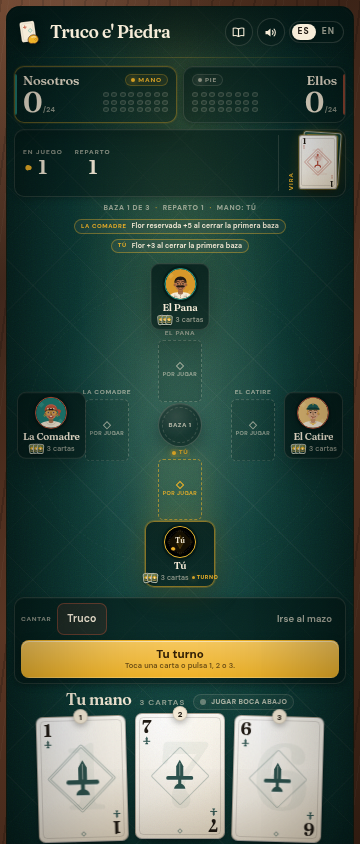
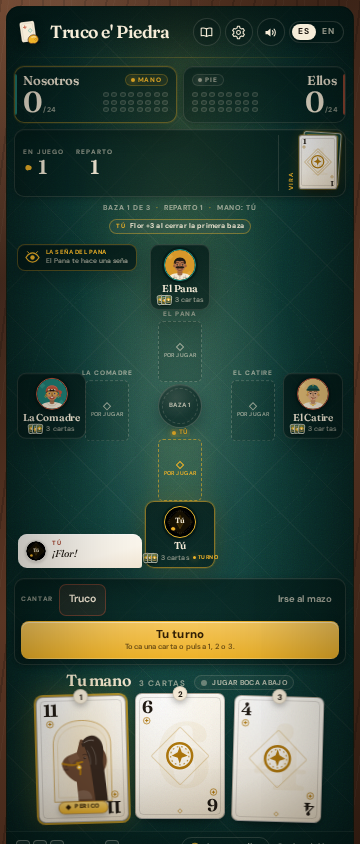
docs(readme): ship the mesa with real evidence

diff --git a/index.html b/index.html
@@ -22,7 +22,7 @@
     <meta property="og:url" content="https://gerrcass.github.io/venezuelan-truco-game/" />
     <meta
       property="og:image"
-      content="https://gerrcass.github.io/venezuelan-truco-game/og-image.png"
+      content="https://gerrcass.github.io/venezuelan-truco-game/og-image.jpg"
     />
     <meta property="og:image:width" content="1200" />
     <meta property="og:image:height" content="630" />
@@ -39,7 +39,7 @@
     />
     <meta
       name="twitter:image"
-      content="https://gerrcass.github.io/venezuelan-truco-game/og-image.png"
+      content="https://gerrcass.github.io/venezuelan-truco-game/og-image.jpg"
     />
     <meta
       name="twitter:image:alt"

diff --git a/README.md b/README.md
@@ -1,5 +1,119 @@
-<img src="assets/icon.svg" width="64" height="64" alt="">
+<p align="center">
+  <img src="assets/icon.svg" width="76" height="76" alt="Truco e' Piedra: a playing card with a stone">
+</p>
 
-# venezuelan-truco-game
+<h1 align="center">Truco e' Piedra</h1>
 
-Created in [T3 Code](https://t3.codes).
+<p align="center">
+  <strong>24 piedras, four friends, one Caracas kitchen table.</strong><br>
+  A single-player 2v2 Venezuelan truco game that runs in the browser.
+</p>
+
+<p align="center">
+  <a href="https://gerrcass.github.io/venezuelan-truco-game/"><strong>▶ Jugar la mesa · Play the table</strong></a>
+  &nbsp;·&nbsp;
+  <a href="docs/rules/TRUCO-VENEZOLANO.md">Rules</a>
+  &nbsp;·&nbsp;
+  <a href="docs/adr/">Decisions</a>
+</p>
+
+<p align="center">
+  <a href="https://github.com/gerrcass/venezuelan-truco-game/actions/workflows/ci.yml"><img src="https://github.com/gerrcass/venezuelan-truco-game/actions/workflows/ci.yml/badge.svg?branch=main" alt="CI status"></a>
+  <a href="https://github.com/gerrcass/venezuelan-truco-game/actions/workflows/pages.yml"><img src="https://github.com/gerrcass/venezuelan-truco-game/actions/workflows/pages.yml/badge.svg?branch=main" alt="Pages deployment status"></a>
+  <a href="LICENSE"><img src="https://img.shields.io/badge/license-MIT-f0b429" alt="MIT license"></a>
+</p>
+
+<p align="center">
+  <a href="https://gerrcass.github.io/venezuelan-truco-game/">
+    <img src="assets/truco-mesa.png" alt="Truco e' Piedra table at 1440 px: Nosotros and Ellos on 0, the vira 3 de oro, El Pana's seña panel, the perico in the human hand, an accepted envido in the log and El Catire answering ¡Quiero!." width="100%">
+  </a>
+  <br>
+  <sub>A real deal (seed <code>seed-17</code>): vira 3 de oro, the perico in hand, El Pana's seña and an envido on the table.</sub>
+</p>
+
+## What it is
+
+**Truco e' Piedra** is a free, single-player 2v2 Venezuelan truco game played to **24 piedras**. You sit with **El Pana** against **La Comadre** and **El Catire** at a warm Caracas kitchen table. The rules are the Venezuelan ones, not the Argentine ones: the **vira** turns a court card into the **perico** or **perica**, **flor** cancels **envido**, and the **prive** shows up when somebody is one piedra away from winning.
+
+No backend, no accounts, no analytics. It is a static site, a deck of cards and a very opinionated partner.
+
+## What's on the table
+
+- **Vira, perico and perica** — the vira's palo promotes the caballo and sota (or the rey, when the vira is a court card). The table labels every piece, and El Pana's seña points at one.
+- **Envido and la falta** — the full four-step ladder: envido, quiero y envido, quiero y 5 piedras más and envido la falta.
+- **Flor and flor reservada** — three of a palo, or a piece with two of a palo. Flor cancels envido. Reservada (perico + perica) is automatic and worth 5.
+- **The truco ladder** — truco, retruco, vale nueve and vale juego, with accepts, declines, raises and folds.
+- **Prive, quemar and pardas** — the 23-piedra prive, face-down burns and the house parda rules, all itemized.
+- **Señas and table talk** — El Pana sends one gesture per reparto; the three personas have their own risk appetite and their own mouth.
+- **Spanish and English** — every visible string, rule and taunt exists in both languages. Spanish is the default.
+- **Keyboard and phone first** — play with 1–3, open rules with R, burn with B, close with Escape. The table works at 360 px and respects `prefers-reduced-motion`.
+- **A deterministic engine** — seeded shuffles and bot decisions. The same seed gives the same mesa, which is how the screenshot above was taken.
+
+## How to play in 30 seconds
+
+1. You and El Pana get **three cards** each. The team that wins **two of the three bazas** takes the reparto.
+2. Before your first card you may call **envido** (a bet on your best two-card tanto) or **flor** (three of a palo, or a piece with two of a palo).
+3. You may call **truco** on your turn, in any baza. The other team can accept, decline or raise.
+4. The first team to **24 piedras** wins the partida. There is no win-by-two; the mesa does not wait.
+
+If a canto confuses you, open **Reglas** — the school has a tab for each lance, with cards and formulas.
+
+## Stack and architecture
+
+- **Vite + React + TypeScript** single-page app, no router and no backend. Relative asset paths keep the GitHub Pages build portable.
+- **Pure engine** in `src/engine/`: cards, scoring, reducer, legal actions and seat-scoped views. No React, no DOM and no ambient randomness.
+- **One information boundary** — `viewFor(state, seat)` is the only thing a seat sees. The bots consume that view and a seeded RNG; they never read another hand.
+- **Three AI personas** with different thresholds and taunt banks: steady El Pana, patient La Comadre and reckless El Catire.
+- **Tests** — Vitest and Testing Library for the engine, reducer, AI, components and copy; Playwright for the production journey.
+- **Delivery** — GitHub Actions runs typecheck, lint, unit tests, build and E2E; Pages deploys `main`.
+
+The decisions behind the big seams live in [`docs/adr/`](docs/adr/), and the rules authority is [`docs/rules/TRUCO-VENEZOLANO.md`](docs/rules/TRUCO-VENEZOLANO.md).
+
+## Development
+
+Requires **Node 22** (see `.nvmrc`).
+
+```bash
+npm install
+npm run dev       # local table at http://localhost:5173
+npm run check     # typecheck + lint + unit tests + production build
+npm run e2e       # Playwright against the production build
+npm run build     # production bundle in dist/
+npm run preview   # serve the production build
+npm run format    # Prettier
+```
+
+Playwright needs Chromium once:
+
+```bash
+npx playwright install chromium
+```
+
+`npm run e2e` builds the app, serves it on `127.0.0.1:4173` and runs the journey in `e2e/`. If another local project owns 4173, use `E2E_PORT=4174 npm run e2e`.
+
+## Rules and sources
+
+The full ruleset, scoring order and house rulings are in [`docs/rules/TRUCO-VENEZOLANO.md`](docs/rules/TRUCO-VENEZOLANO.md). The short version of the house calls:
+
+- **Flor reservada is 5**, not 3.
+- **Flor settles when the first baza closes**, so both teams get the whole first baza to declare.
+- **Prive is called by the team at 23** and replaces envido for that reparto.
+- **No flor-envido betting subgame**: when both teams have flor, the best flor is compared automatically.
+
+Sources used to build the ruleset:
+
+| Source                                                                                              | What it gave us                                       |
+| --------------------------------------------------------------------------------------------------- | ----------------------------------------------------- |
+| [Wikipedia — _Truco venezolano_](https://es.wikipedia.org/wiki/Truco_venezolano)                    | The deck, the vira, the flor and the 24-piedra target |
+| [Ludoteka — _Reglas del Truco Venezolano_](https://www.ludoteka.com/juegos/truco-venezolano/reglas) | The envido ladder and the truco values                |
+| [El Truco Venezolano — _Vocabulario_](https://eltrucovenezolano.com/vocabulario/)                   | The mesa's vocabulary: perico, perica, matas, señas   |
+
+## Deployment
+
+`main` is deployed to GitHub Pages by [`.github/workflows/pages.yml`](.github/workflows/pages.yml). CI runs the same checks plus the Playwright journey on every pull request and on `main`.
+
+Live: **<https://gerrcass.github.io/venezuelan-truco-game/>**
+
+## License
+
+MIT. The code and the original SVG deck, avatars and art are part of this repository. Card games are not copyrightable; this deck is original work.

diff --git a/docs/agents/workflow.md b/docs/agents/workflow.md
@@ -35,7 +35,7 @@ The spec is issue #1. The tickets are issues #2–#8, connected by native blocki
 | #5 | formula tests; screenshot of envido/flor/prive in the summary |
 | #6 | AI legality/determinism tests; screenshot of a seña and a taunt |
 | #7 | language toggle and rules-modal tests; mobile and desktop screenshots |
-| #8 | Playwright output; live URL; README screenshot |
+| #8 | `npm run e2e` output and the CI E2E job; README screenshot (`assets/truco-mesa.png`, seed `seed-17`); 1440×900 and 360×800 final table evidence; live URL after Pages |
 
 ## Integration
 
